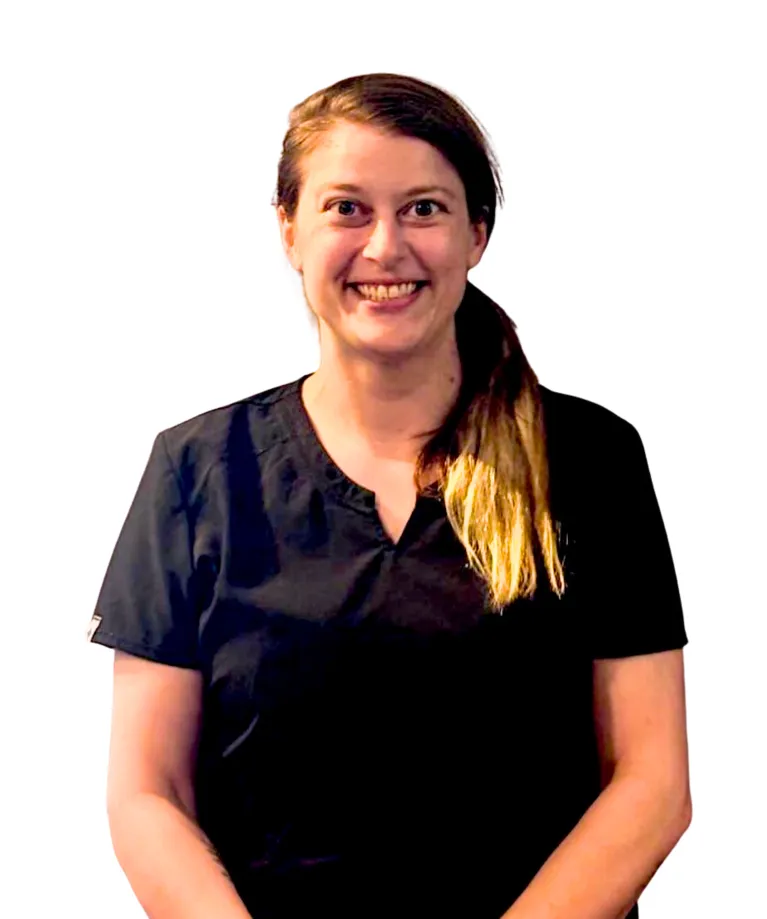
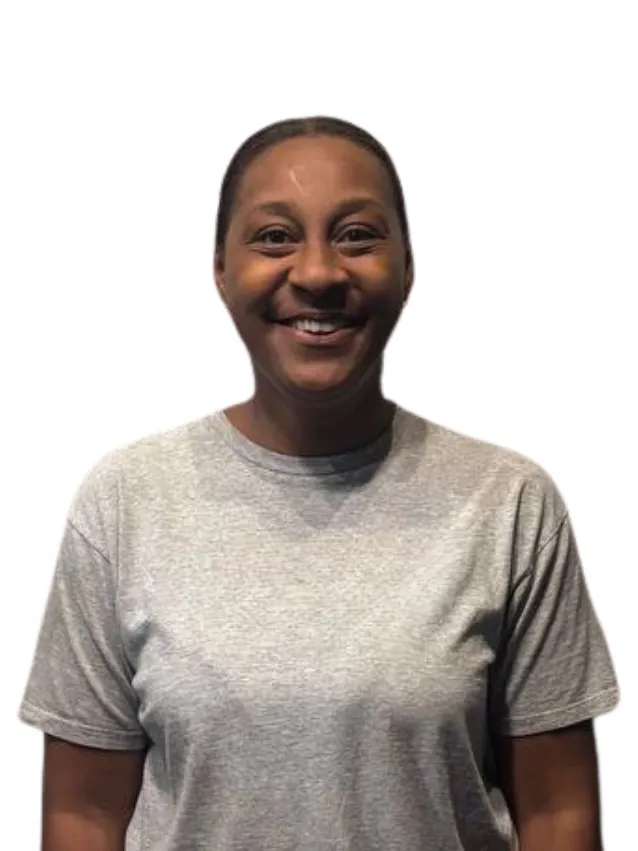
v0.44.5: fix Sulphur Springs staff photos and hide testimonials
Align SS staff roster and portraits with the legacy meet-the-staff page, and remove the patient reviews block from the Sulphur hub page.

diff --git a/scripts/backfill-site-staff-ss-roster.ts b/scripts/backfill-site-staff-ss-roster.ts
@@ -1,0 +1,83 @@
+/**
+ * One-off backfill: align Sulphur Springs staff in Firestore with the legacy
+ * meet-the-staff roster and local image paths.
+ *
+ * - Updates photoUrl for known SS seed members (by normalized name)
+ * - Deactivates Leotta Cascia (not on legacy site)
+ *
+ * Usage (from repo root, same env as Next — e.g. `.env.local`):
+ *   npx tsx scripts/backfill-site-staff-ss-roster.ts
+ */
+
+import { loadEnvConfig } from "@next/env";
+import { FieldValue } from "firebase-admin/firestore";
+import { getFirestore } from "@/lib/firebase-admin";
+import { SITE_STAFF_COLLECTION } from "@/lib/site-staff-data";
+import { SS_STAFF_SEED } from "@/lib/site-staff-seed-rosters";
+
+function normalizeName(name: string): string {
+  return name.trim().toLowerCase().replace(/\s+/g, " ");
+}
+
+const LEGACY_SS_NAMES = new Set(SS_STAFF_SEED.map((m) => normalizeName(m.name)));
+
+const seedPhotos = new Map(
+  SS_STAFF_SEED.filter((m) => m.image?.trim()).map((m) => [normalizeName(m.name), m.image!.trim()]),
+);
+
+async function main(): Promise<void> {
+  loadEnvConfig(process.cwd());
+
+  const db = getFirestore();
+  const snap = await db.collection(SITE_STAFF_COLLECTION).get();
+
+  let photoUpdates = 0;
+  let deactivated = 0;
+
+  for (const doc of snap.docs) {
+    const data = doc.data();
+    const name = typeof data.name === "string" ? data.name : "";
+    const brand = typeof data.brand === "string" ? data.brand.trim().toLowerCase() : "";
+    if (brand !== "sulphur" && brand !== "both") continue;
+
+    const normalized = normalizeName(name);
+
+    if (!LEGACY_SS_NAMES.has(normalized)) {
+      if (data.active !== false) {
+        await doc.ref.update({
+          active: false,
+          updatedAt: FieldValue.serverTimestamp(),
+          updatedByUid: "backfill-ss-roster",
+        });
+        deactivated += 1;
+        console.log(`[deactivate] "${name}" — not on legacy SS roster`);
+      }
+      continue;
+    }
+
+    const seedPhoto = seedPhotos.get(normalized);
+    if (!seedPhoto) continue;
+
+    const currentPhoto = typeof data.photoUrl === "string" ? data.photoUrl.trim() : "";
+    if (currentPhoto === seedPhoto) continue;
+
+    await doc.ref.update({
+      photoUrl: seedPhoto,
+      updatedAt: FieldValue.serverTimestamp(),
+      updatedByUid: "backfill-ss-roster",
+    });
+    photoUpdates += 1;
+    console.log(`[photo] "${name}" → ${seedPhoto}`);
+  }
+
+  console.log(
+    photoUpdates > 0 || deactivated > 0
+      ? `\n[done] ${photoUpdates} photo(s) updated, ${deactivated} member(s) deactivated.`
+      : "\n[done] Nothing to update.",
+  );
+}
+
+void main().catch((e) => {
+  console.error(e instanceof Error ? e.stack ?? e.message : e);
+  process.exit(1);
+});

diff --git a/lib/site-staff-seed-rosters.ts b/lib/site-staff-seed-rosters.ts
@@ -89,22 +89,17 @@ export const SS_STAFF_SEED: readonly SSStaffSeedEntry[] = [
     bio: "",
   },
   {
-    id: "leotta_cascia",
-    name: "Leotta Cascia",
-    role: "Massage Therapist",
-    image: "/images/staff-ss/leotta-cascia.webp",
-    bio: "",
-  },
-  {
     id: "brittany_brown",
     name: "Brittany Brown",
     role: "Massage Therapist",
+    image: "/images/staff-ss/brittany-brown.webp",
     bio: "",
   },
   {
     id: "ashlyn_davis",
     name: "Ashlyn Davis",
     role: "Rehab Therapy",
+    image: "/images/staff-ss/ashlyn-davis.webp",
     bio: "",
   },
 ] as const;

diff --git a/app/sulphur-springs/page.tsx b/app/sulphur-springs/page.tsx
@@ -9,7 +9,6 @@ import { SS_STAFF_SEED } from "@/lib/site-staff-seed-rosters";
 import {
   getPracticePage,
   getSSServiceCards,
-  listPracticeTestimonials,
 } from "@/lib/practice-pages";
 import { practiceThemeStyle } from "@/components/practice/theme";
 import { UtilityBar } from "@/components/practice/UtilityBar";
@@ -17,7 +16,6 @@ import { PracticeHero } from "@/components/practice/PracticeHero";
 import { QuickActionsRow } from "@/components/practice/QuickActionsRow";
 import { ServicesGrid } from "@/components/practice/ServicesGrid";
 import { AboutWelcome } from "@/components/practice/AboutWelcome";
-import { PatientReviews } from "@/components/practice/PatientReviews";
 import { TeamStrip, type PracticeTeamMember } from "@/components/practice/TeamStrip";
 import { LocationContactBlock } from "@/components/practice/LocationContactBlock";
 import { ExtrasSection } from "@/components/practice/ExtrasSection";
@@ -46,9 +44,8 @@ export const metadata = buildPageMetadata({
 });
 
 export default async function SulphurSpringsPage() {
-  const [page, testimonials, ssServiceCards, ssHours, staff, displayLocs] = await Promise.all([
+  const [page, ssServiceCards, ssHours, staff, displayLocs] = await Promise.all([
     getPracticePage("sulphur-springs"),
-    listPracticeTestimonials("sulphur-springs", { publishedOnly: true }),
     getSSServiceCards(),
     getSulphurOfficeHours(),
     resolveSiteStaffForBrand("sulphur"),
@@ -81,7 +78,6 @@ export default async function SulphurSpringsPage() {
         {page.aboutBlocks.map((block) => (
           <AboutWelcome key={block.id} data={block} phone={ss.phonePrimary} />
         ))}
-        <PatientReviews data={page.reviews} testimonials={testimonials} />
         {page.teamSections.map((section) => (
           <TeamStrip
             key={section.id}

diff --git a/lib/practice-pages.ts b/lib/practice-pages.ts
@@ -516,7 +516,7 @@ async function buildSulphurSpringsDefaults(): Promise<PracticePageDoc> {
       },
     ],
     reviews: {
-      published: true,
+      published: false,
       heading: "What Our Patients Say",
       linkToReviewsPage: false,
       reviewsUrl: "",

diff --git a/docs/staff-parity-checklist.md b/docs/staff-parity-checklist.md
@@ -31,7 +31,7 @@ Paris chiropractors (Greg Thompson, Sean Welborn, Brandy Collins): `/about` and 
 |-------------|----------|
 | Dr. Conner Collins | `/sulphur-springs/staff` (featured) |
 | Jade Petty, Taylor Harrison | `/sulphur-springs/staff` |
-| Leotta Cascia, Brittany Brown, Ashlyn Davis | `/sulphur-springs/staff` |
+| Brittany Brown, Ashlyn Davis | `/sulphur-springs/staff` |
 
 ## Dual roles (intentional)
 